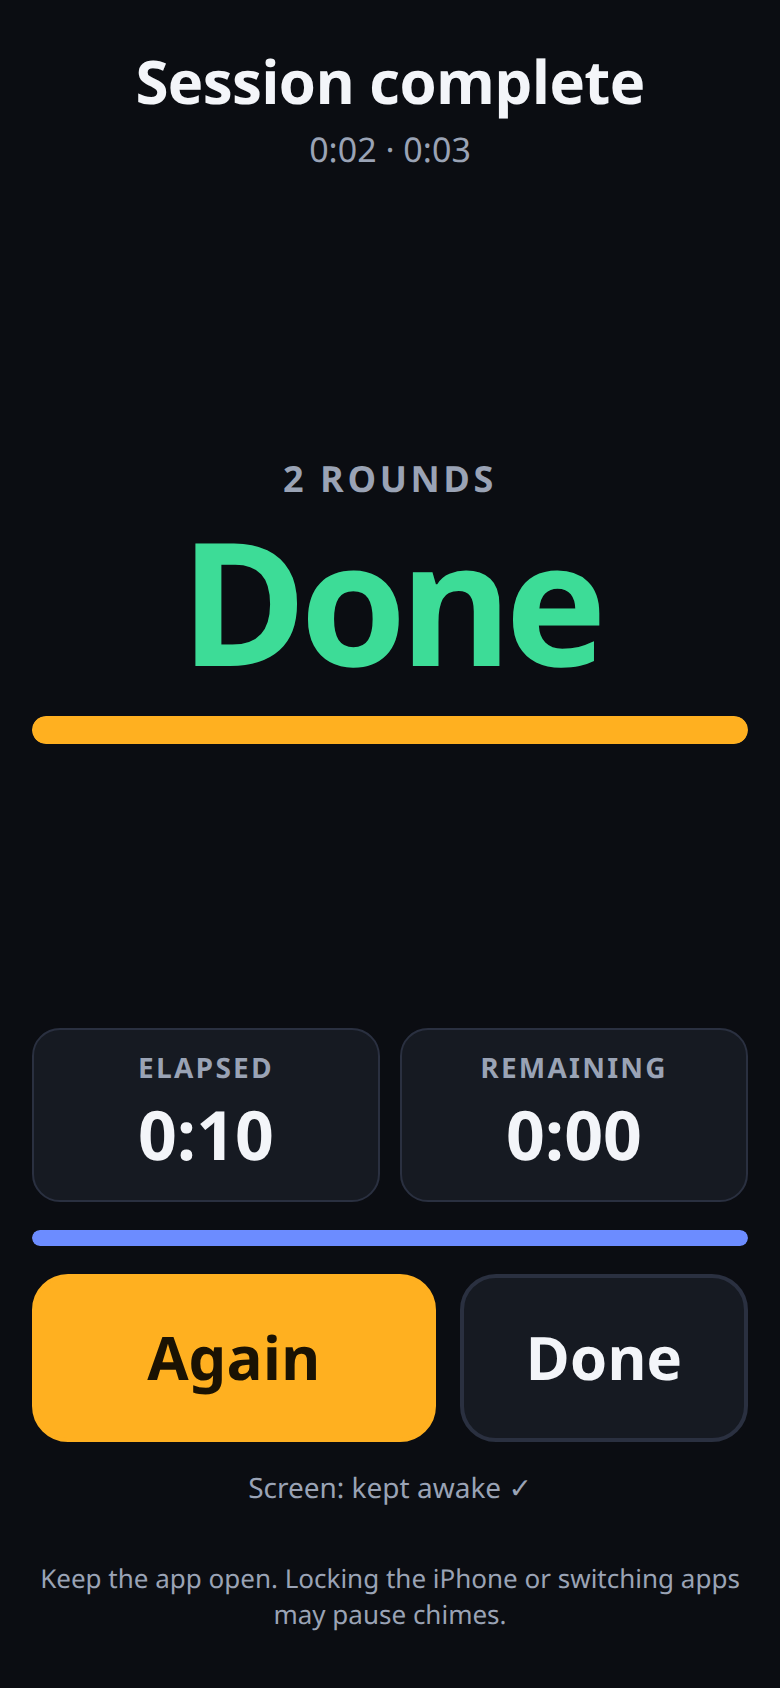
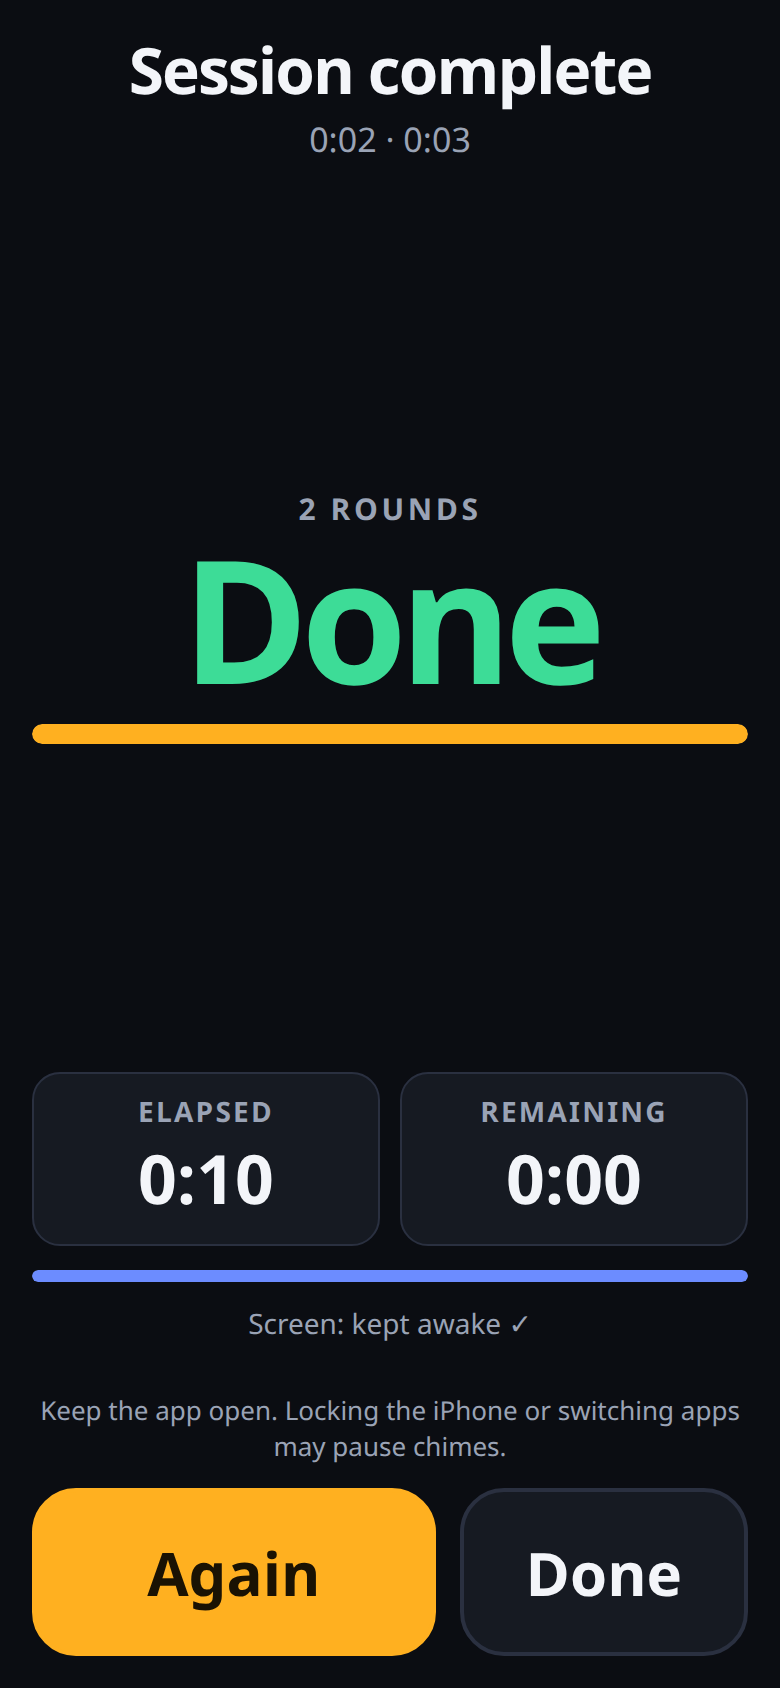
Polish the workout screens for a one-handed iPhone. (#6)
The paste list sits above a Start button that stays on the first screen, the picker is labeled, and the running timer names the next step. Motion respects reduced motion. Service worker cache is v8.

diff --git a/styles.css b/styles.css
@@ -38,6 +38,8 @@ button, input { font: inherit; color: inherit; }
 
 /* ---------- paste a workout, then start ---------- */
 .paste-top {
+  height: 100vh;
+  height: 100dvh;
   min-height: 100vh;
   min-height: 100dvh;
   box-sizing: border-box;
@@ -45,13 +47,16 @@ button, input { font: inherit; color: inherit; }
   flex-direction: column;
   gap: 12px;
   padding: calc(22px + var(--safe-t)) calc(16px + var(--safe-r)) calc(12px + var(--safe-b)) calc(16px + var(--safe-l));
+  overflow: hidden;
 }
 .paste-top #workout-text {
+  order: 1;
   flex: 1 1 auto;
-  min-height: 160px;
+  min-height: 120px;
   margin: 0;
 }
 .paste-top #btn-start-workout.huge {
+  order: 3;
   margin: 0;
   min-height: 120px;
   font-size: 40px;
@@ -61,15 +66,38 @@ button, input { font: inherit; color: inherit; }
   flex: none;
 }
 .paste-top #workout-preview {
-  flex: none;
-  max-height: 22vh;
+  order: 2;
+  flex: 0 1 auto;
+  max-height: 36vh;
   overflow: auto;
   margin: 0;
+  background: var(--panel);
+  border: 1px solid var(--line);
+  border-radius: 16px;
+  padding: 2px 0;
 }
-.paste-top .workout-total { margin: 0 0 8px; font-size: 15px; padding: 8px 10px; }
-.paste-top .wk-block { margin: 6px 0; padding: 8px 10px; }
-.paste-top .wk-head { font-size: 15px; }
-.paste-top .wk-cue, .paste-top .wk-warn, .paste-top .wk-sub li { font-size: 13px; }
+.paste-top .workout-total {
+  margin: 0;
+  border: 0;
+  background: transparent;
+  border-radius: 0;
+  font-size: 16px;
+  font-weight: 750;
+  padding: 10px 14px 6px;
+}
+.paste-top .wk-block {
+  margin: 0;
+  padding: 9px 14px;
+  background: transparent;
+  border: 0;
+  border-radius: 0;
+  border-bottom: 1px solid var(--line);
+  animation: rise 0.28s ease both;
+}
+.paste-top .wk-block:last-child { border-bottom: 0; }
+.paste-top .wk-head { font-size: 17px; font-weight: 750; }
+.paste-top .wk-head .tm { color: var(--dim); font-variant-numeric: tabular-nums; }
+.paste-top .wk-cue, .paste-top .wk-warn, .paste-top .wk-sub li { font-size: 14px; }
 
 /* ---------- main: one wheel + start ---------- */
 .hero {
@@ -79,7 +107,19 @@ button, input { font: inherit; color: inherit; }
   display: flex;
   flex-direction: column;
   position: relative;
-  padding: calc(22px + var(--safe-t)) calc(16px + var(--safe-r)) calc(12px + var(--safe-b)) calc(16px + var(--safe-l));
+  padding: calc(18px + var(--safe-t)) calc(16px + var(--safe-r)) calc(12px + var(--safe-b)) calc(16px + var(--safe-l));
+}
+.wheel-labels {
+  display: grid;
+  grid-template-columns: 1fr 1fr 1fr;
+  gap: 8px;
+  margin: 0 4px 8px;
+  color: var(--dim);
+  font-size: 13px;
+  font-weight: 700;
+  letter-spacing: 0.08em;
+  text-transform: uppercase;
+  text-align: center;
 }
 .wheel {
   position: relative;
@@ -241,16 +281,18 @@ h2 { font-size: 15px; text-transform: uppercase; letter-spacing: .08em; color: v
   min-height: 132px;
   resize: none;
   margin: 0;
-  padding: 12px 14px;
+  padding: 14px 16px;
   font: inherit;
-  font-size: 16px;
-  line-height: 1.4;
+  font-size: 17px;
+  line-height: 1.45;
   color: var(--text);
   background: var(--panel2);
   border: 2px solid var(--line);
-  border-radius: 14px;
+  border-radius: 16px;
   touch-action: pan-y;
+  transition: border-color 0.15s ease;
 }
+#workout-text::placeholder { color: var(--dim); }
 #workout-text:focus { border-color: var(--accent); outline: none; }
 .workout-total { margin-top: 12px; }
 .wk-block {
@@ -280,37 +322,62 @@ h2 { font-size: 15px; text-transform: uppercase; letter-spacing: .08em; color: v
 .note.small { font-size: 13px; text-align: center; }
 
 /* ---------- running ---------- */
-#run { display: flex; flex-direction: column; gap: 14px; }
+#run {
+  display: flex;
+  flex-direction: column;
+  gap: 12px;
+  min-height: 100vh;
+  min-height: 100dvh;
+  animation: rise 0.18s ease-out;
+}
 #run[hidden] { display: none; }
-.run-top { text-align: center; margin-top: 6px; }
-.r-interval { font-size: 30px; font-weight: 800; letter-spacing: -0.01em; }
-.r-every { color: var(--dim); font-size: 17px; margin-top: 2px; }
-.count-wrap { text-align: center; flex: 1; display: flex; flex-direction: column; justify-content: center; min-height: 260px; }
-.r-label { color: var(--dim); font-size: 18px; text-transform: uppercase; letter-spacing: .1em; font-weight: 650; }
+.run-top { text-align: center; margin-top: 4px; }
+.r-interval { font-size: 32px; font-weight: 800; letter-spacing: -0.03em; line-height: 1.15; }
+.r-every { color: var(--dim); font-size: 17px; margin-top: 4px; line-height: 1.35; }
+.count-wrap { text-align: center; flex: 1; display: flex; flex-direction: column; justify-content: center; min-height: 220px; }
+.r-label { color: var(--dim); font-size: 15px; text-transform: uppercase; letter-spacing: .12em; font-weight: 700; }
 .r-count {
-  font-size: clamp(96px, 30vw, 210px); line-height: 1; font-weight: 800; letter-spacing: -0.04em;
-  font-variant-numeric: tabular-nums; margin: 6px 0 14px; color: var(--accent);
+  font-size: clamp(104px, 32vw, 220px); line-height: 0.95; font-weight: 800; letter-spacing: -0.045em;
+  font-variant-numeric: tabular-nums; margin: 4px 0 12px; color: var(--accent);
+  transition: color 0.2s ease;
+}
+.r-next {
+  margin-top: 12px;
+  color: var(--text);
+  font-size: 17px;
+  font-weight: 700;
+  letter-spacing: -0.02em;
+  line-height: 1.3;
 }
 .phase-rest .r-count { color: var(--rest); }
 .phase-rest .bar .fill { background: var(--rest); }
 .paused .r-count { color: var(--dim); animation: blink 1.4s steps(2, start) infinite; }
 .done .r-count { color: var(--ok); font-size: clamp(72px, 22vw, 150px); }
 @keyframes blink { to { opacity: .35; } }
-.bar { height: 14px; background: var(--panel2); border-radius: 10px; overflow: hidden; }
-.bar.thin { height: 8px; }
-.bar .fill { height: 100%; width: 0%; background: var(--accent); border-radius: 10px; }
+.bar { height: 10px; background: var(--panel2); border-radius: 8px; overflow: hidden; }
+.bar.thin { height: 6px; }
+.bar .fill { height: 100%; width: 0%; background: var(--accent); border-radius: 8px; transition: width 0.45s cubic-bezier(0.45, 0, 0.1, 1), background-color 0.2s ease; }
 .bar .fill.alt { background: #6c8cff; }
 .stats { display: grid; grid-template-columns: 1fr 1fr; gap: 10px; }
 .stat { background: var(--panel); border: 1px solid var(--line); border-radius: 14px; padding: 10px 12px; text-align: center; }
 .stat .k { display: block; color: var(--dim); font-size: 14px; text-transform: uppercase; letter-spacing: .08em; font-weight: 650; }
 .stat .v { display: block; font-size: 34px; font-weight: 800; font-variant-numeric: tabular-nums; }
 .controls { display: grid; grid-template-columns: 1.4fr 1fr; gap: 12px; }
+.controls .btn.huge { min-height: 84px; border-radius: 22px; }
+/* Thumb zone: the note sits just above the buttons, and the buttons are the last thing on the screen. */
+#run .status { order: 6; }
+#run .note { order: 7; margin-bottom: 0; }
+#run .controls { order: 8; }
 .status { text-align: center; color: var(--dim); font-size: 14px; margin: 0; }
 .banner { background: #3b2a00; border: 1px solid var(--accent); border-radius: 14px; padding: 10px 12px; display: flex; gap: 10px; align-items: center; justify-content: space-between; font-size: 15px; }
 
-.flash { position: fixed; inset: 0; background: var(--accent); opacity: 0; pointer-events: none; transition: opacity .6s ease-out; }
-.flash.on { opacity: .55; transition: none; }
+.flash { position: fixed; inset: 0; background: var(--accent); opacity: 0; pointer-events: none; transition: opacity .32s ease-out; }
+.flash.on { opacity: .28; transition: none; }
 .flash.end { background: var(--ok); }
+@keyframes rise {
+  from { opacity: 0; transform: translateY(8px); }
+  to { opacity: 1; transform: none; }
+}
 
 @media (max-height: 700px) {
   .wheel { height: 288px; }
@@ -320,5 +387,6 @@ h2 { font-size: 15px; text-transform: uppercase; letter-spacing: .08em; color: v
 }
 @media (prefers-reduced-motion: reduce) {
   .paused .r-count { animation: none; }
-  .flash { transition: none; }
+  .flash, .bar .fill, #workout-text, .btn { transition: none; }
+  #run, .paste-top .wk-block { animation: none; }
 }

diff --git a/app.js b/app.js
@@ -1495,6 +1495,11 @@
   var ui = {};
   var lastText = {};
   function setText(el, key, txt) { if (lastText[key] !== txt) { el.textContent = txt; lastText[key] = txt; } }
+  function setNext(text) {
+    if (!ui.next) return;
+    ui.next.hidden = !text;
+    setText(ui.next, 'next', text || '');
+  }
   function setWidth(el, key, pct) { var v = pct.toFixed(1) + '%'; if (lastText[key] !== v) { el.style.width = v; lastText[key] = v; } }
 
   function buildButtons(container, items, key, extra) {
@@ -1616,6 +1621,7 @@
       setWidth(ui.ibar, 'ib', 100);
       setWidth(ui.tbar, 'tb', 100);
       ui.tbarWrap.hidden = false;
+      setNext('');
       document.title = 'Done · Interval Chime';
       return;
     }
@@ -1639,6 +1645,8 @@
     ui.tbarWrap.hidden = false;
     setWidth(ui.tbar, 'tb', run.totalMs > 0 ? Math.min(100, el / run.totalMs * 100) : 0);
     setText(ui.pause, 'pause', run.state === 'paused' ? 'Resume' : 'Pause');
+    var nxt = run.steps[info.index + 1];
+    setNext(nxt ? ('Next · ' + nxt.name) : 'Last step');
     document.title = cdTxt + ' · ' + step.name;
   }
   function render() {
@@ -1670,6 +1678,7 @@
       setText(ui.remaining, 'rem', '0:00');
       setWidth(ui.ibar, 'ib', 100);
       setWidth(ui.tbar, 'tb', 100);
+      setNext('');
       document.title = 'Done · Interval Chime';
       return;
     }
@@ -1686,6 +1695,10 @@
     ui.tbarWrap.hidden = !isFinite(run.totalMs);
     if (isFinite(run.totalMs)) setWidth(ui.tbar, 'tb', Math.min(100, el / run.totalMs * 100));
     setText(ui.pause, 'pause', run.state === 'paused' ? 'Resume' : 'Pause');
+    var lastPhase = isFinite(run.totalMs) && info.phaseEnd >= run.totalMs - 1;
+    if (lastPhase) setNext('Last step');
+    else if (info.inWork) setNext('Next · Rest ' + fmt(run.restMs / 1000));
+    else setNext('Next · Work ' + fmt(run.workMs / 1000));
     document.title = cdTxt + ' · ' + (info.inWork ? 'Work' : 'Rest');
   }
 
@@ -1776,6 +1789,7 @@
     ui.leadIn = $('opt-leadin'); ui.override = $('opt-override'); ui.volume = $('opt-volume');
     ui.start = $('btn-start'); ui.test = $('btn-test');
     ui.interval = $('r-interval'); ui.every = $('r-every'); ui.label = $('r-label'); ui.count = $('r-count');
+    ui.next = $('r-next');
     ui.ibar = $('r-ibar'); ui.tbar = $('r-tbar'); ui.tbarWrap = $('r-tbar-wrap');
     ui.elapsed = $('r-elapsed'); ui.remaining = $('r-remaining');
     ui.pause = $('btn-pause'); ui.skip = $('btn-skip'); ui.stop = $('btn-stop'); ui.controls = ui.pause.parentNode;

diff --git a/index.html b/index.html
@@ -29,6 +29,7 @@
     </section>
 
     <div class="hero">
+      <div class="wheel-labels" aria-hidden="true"><span>Work</span><span>Rest</span><span>Total</span></div>
       <div class="wheel" id="wheel">
         <div class="wheel-lens" aria-hidden="true"></div>
         <div class="wheel-fade top" aria-hidden="true"></div>
@@ -103,6 +104,7 @@
       <div id="r-label" class="r-label">Work</div>
       <div id="r-count" class="r-count" role="timer" aria-atomic="true">1:00</div>
       <div class="bar"><div id="r-ibar" class="fill"></div></div>
+      <div id="r-next" class="r-next" hidden></div>
     </div>
 
     <div class="stats">

diff --git a/sw.js b/sw.js
@@ -1,5 +1,5 @@
 /* Interval Chime service worker: offline app shell, no network calls of its own. */
-var VERSION = 'interval-chime-v7';
+var VERSION = 'interval-chime-v8';
 var ASSETS = [
   './',
   './index.html',

diff --git a/tools/test_app.py b/tools/test_app.py
@@ -196,6 +196,8 @@ with sync_playwright() as p:
     check('default run: running, work phase, ctx running', st['state'] == 'running' and st['ctxState'] == 'running' and st['phase'] == 'work' and st['workMs'] == 60000 and st['restMs'] == 30000 and st['totalMs'] == 900000, st)
     cnt = page.inner_text('#r-count'); iv = page.inner_text('#r-interval'); lab = page.inner_text('#r-label')
     check('running screen shows work countdown and round 1 of 10', cnt in ('0:56', '0:57') and iv == 'Round 1 of 10' and lab == 'WORK', cnt + ' | ' + iv + ' | ' + lab)
+    nxt = page.inner_text('#r-next')
+    check('default run names the next phase', 'Rest' in nxt and '0:30' in nxt, nxt)
     sched = logs(page, ['sched-chime'])
     times = []
     seen = set()
@@ -569,6 +571,7 @@ with sync_playwright() as p:
     wake = page.inner_text("#r-wake")
     check("workout asks to keep the screen awake", wake.startswith("Screen:") and "…" not in wake, wake)
     check("workout screen shows the step", page.inner_text("#r-interval") == "Rope" and page.is_visible("#btn-skip"))
+    check("a single workout step says last step", page.inner_text("#r-next") == "Last step", page.inner_text("#r-next"))
     page.screenshot(path=os.path.join(SCREENS, "workout-running.png"))
     stop(page)
     page.wait_for_timeout(80)
@@ -580,6 +583,7 @@ with sync_playwright() as p:
     page.wait_for_timeout(350)
     st = page.evaluate("window.__chime.state()")
     check("short workout is on Alpha", st["state"] == "running" and st["mode"] == "workout" and st["stepName"] == "Alpha" and page.inner_text("#r-interval") == "Alpha", st)
+    check("workout names the next step", page.inner_text("#r-next") == "Next · Beta", page.inner_text("#r-next"))
     check("pause and skip are available", page.inner_text("#btn-pause") == "Pause" and page.is_visible("#btn-skip"))
     page.click("#btn-pause")
     e1 = page.evaluate("window.__chime.state()")
@@ -592,6 +596,7 @@ with sync_playwright() as p:
     st = page.evaluate("window.__chime.state()")
     skipped_speech = [e["text"] for e in logs(page, ["speak"])]
     check("skip advances to Beta and speaks it", st["stepName"] == "Beta" and page.inner_text("#r-interval") == "Beta" and any(t.startswith("Beta") for t in skipped_speech), (st["stepName"], skipped_speech))
+    check("the last workout step says last step", page.inner_text("#r-next") == "Last step", page.inner_text("#r-next"))
     stop(page)
     check("stop leaves the workout", page.is_visible("#setup") and page.evaluate("window.__chime.state().state") == "idle")
 
